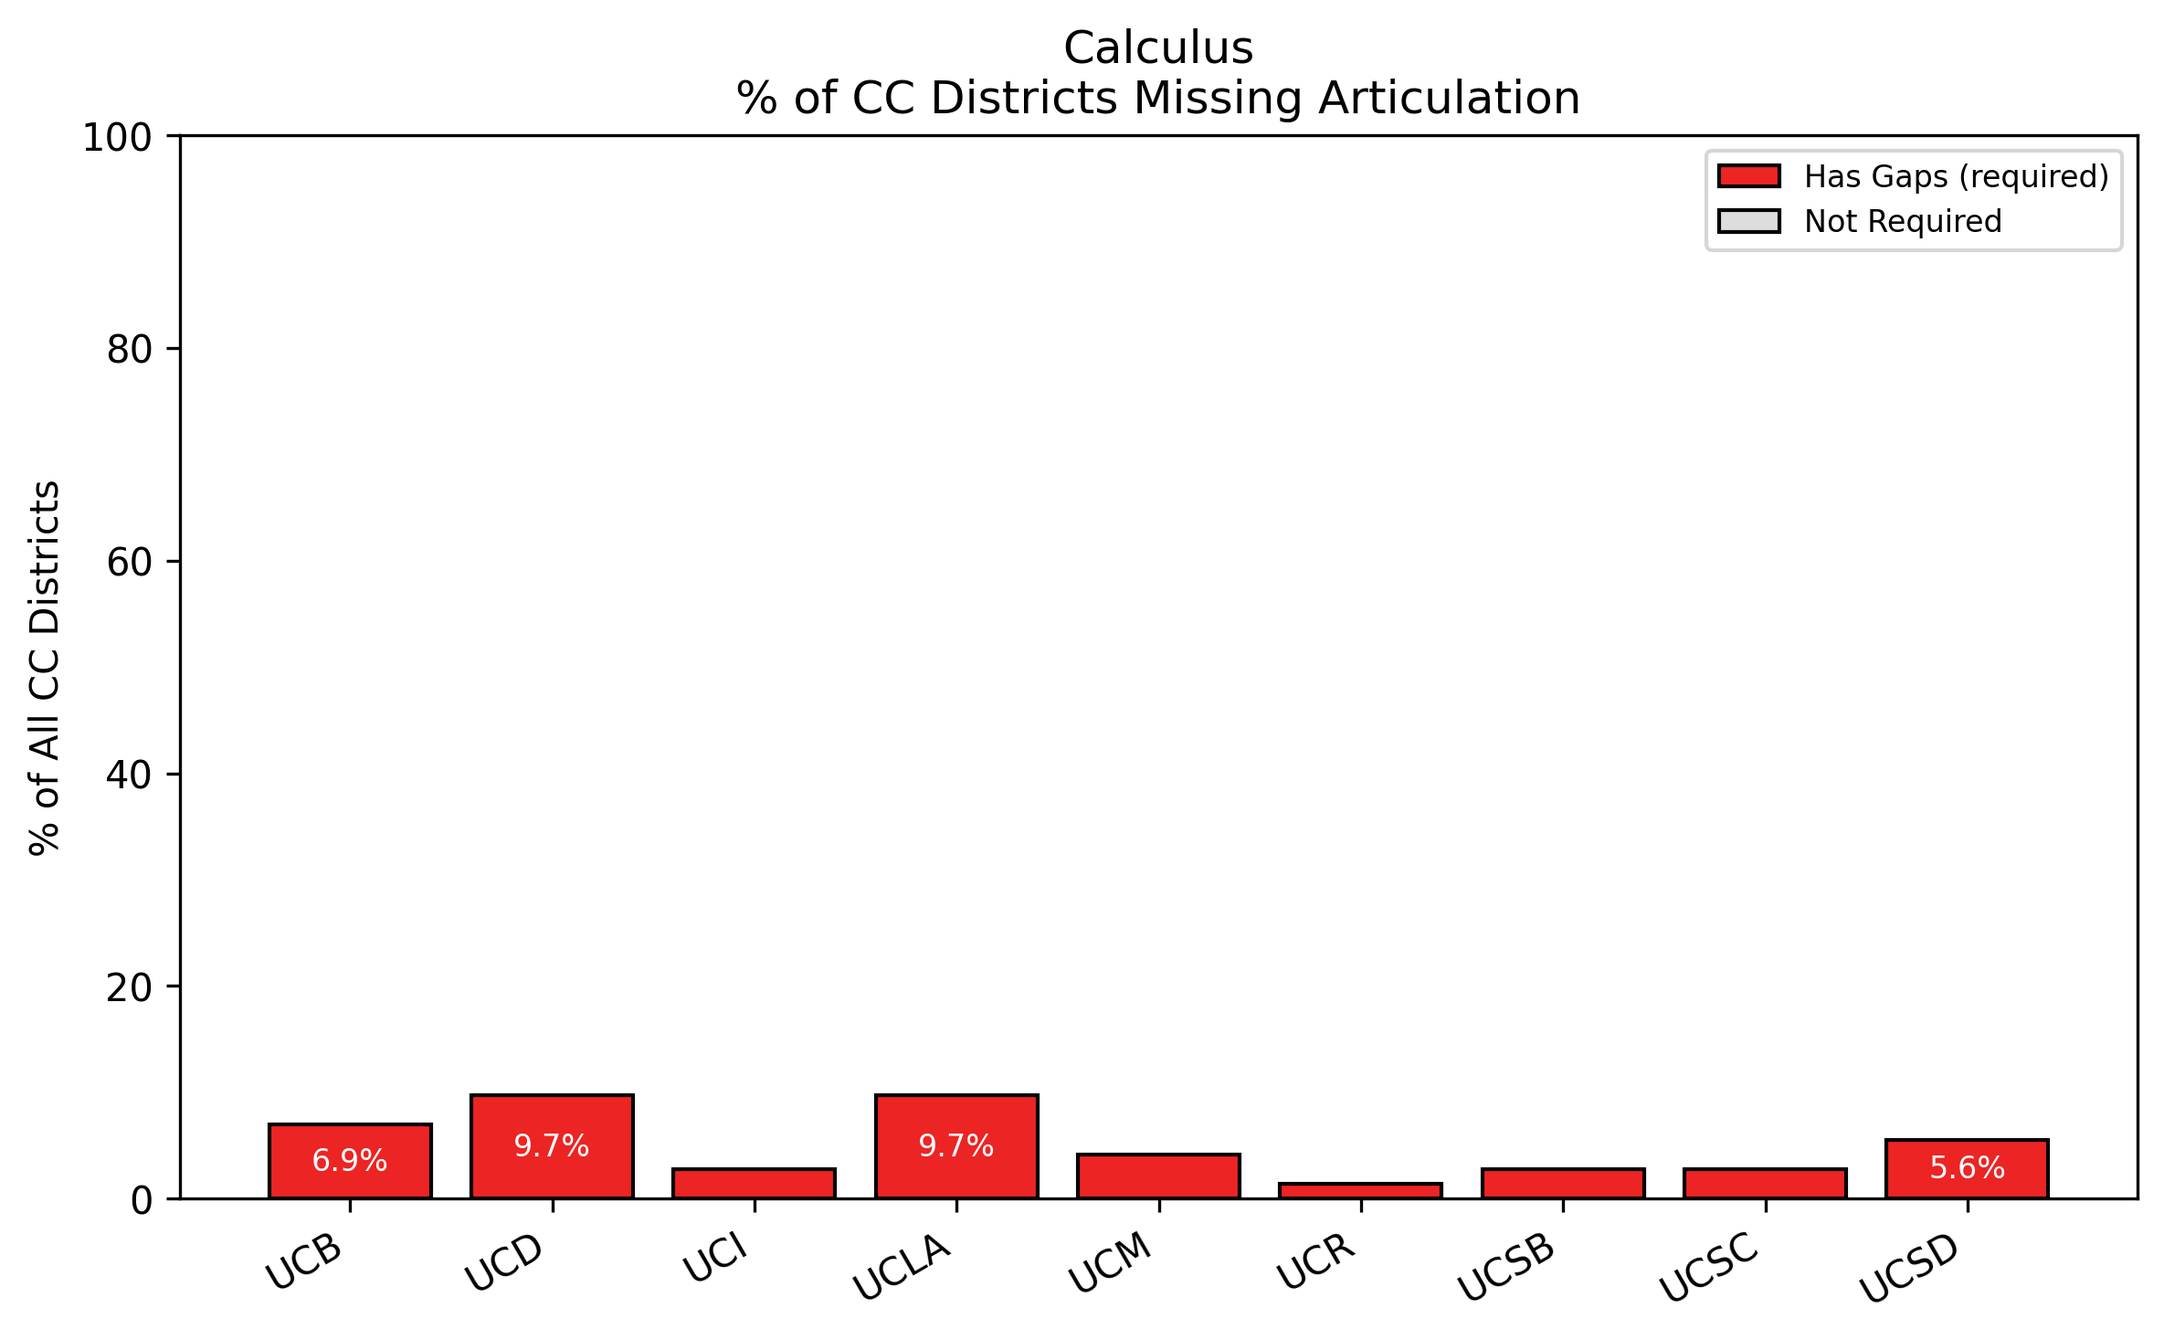
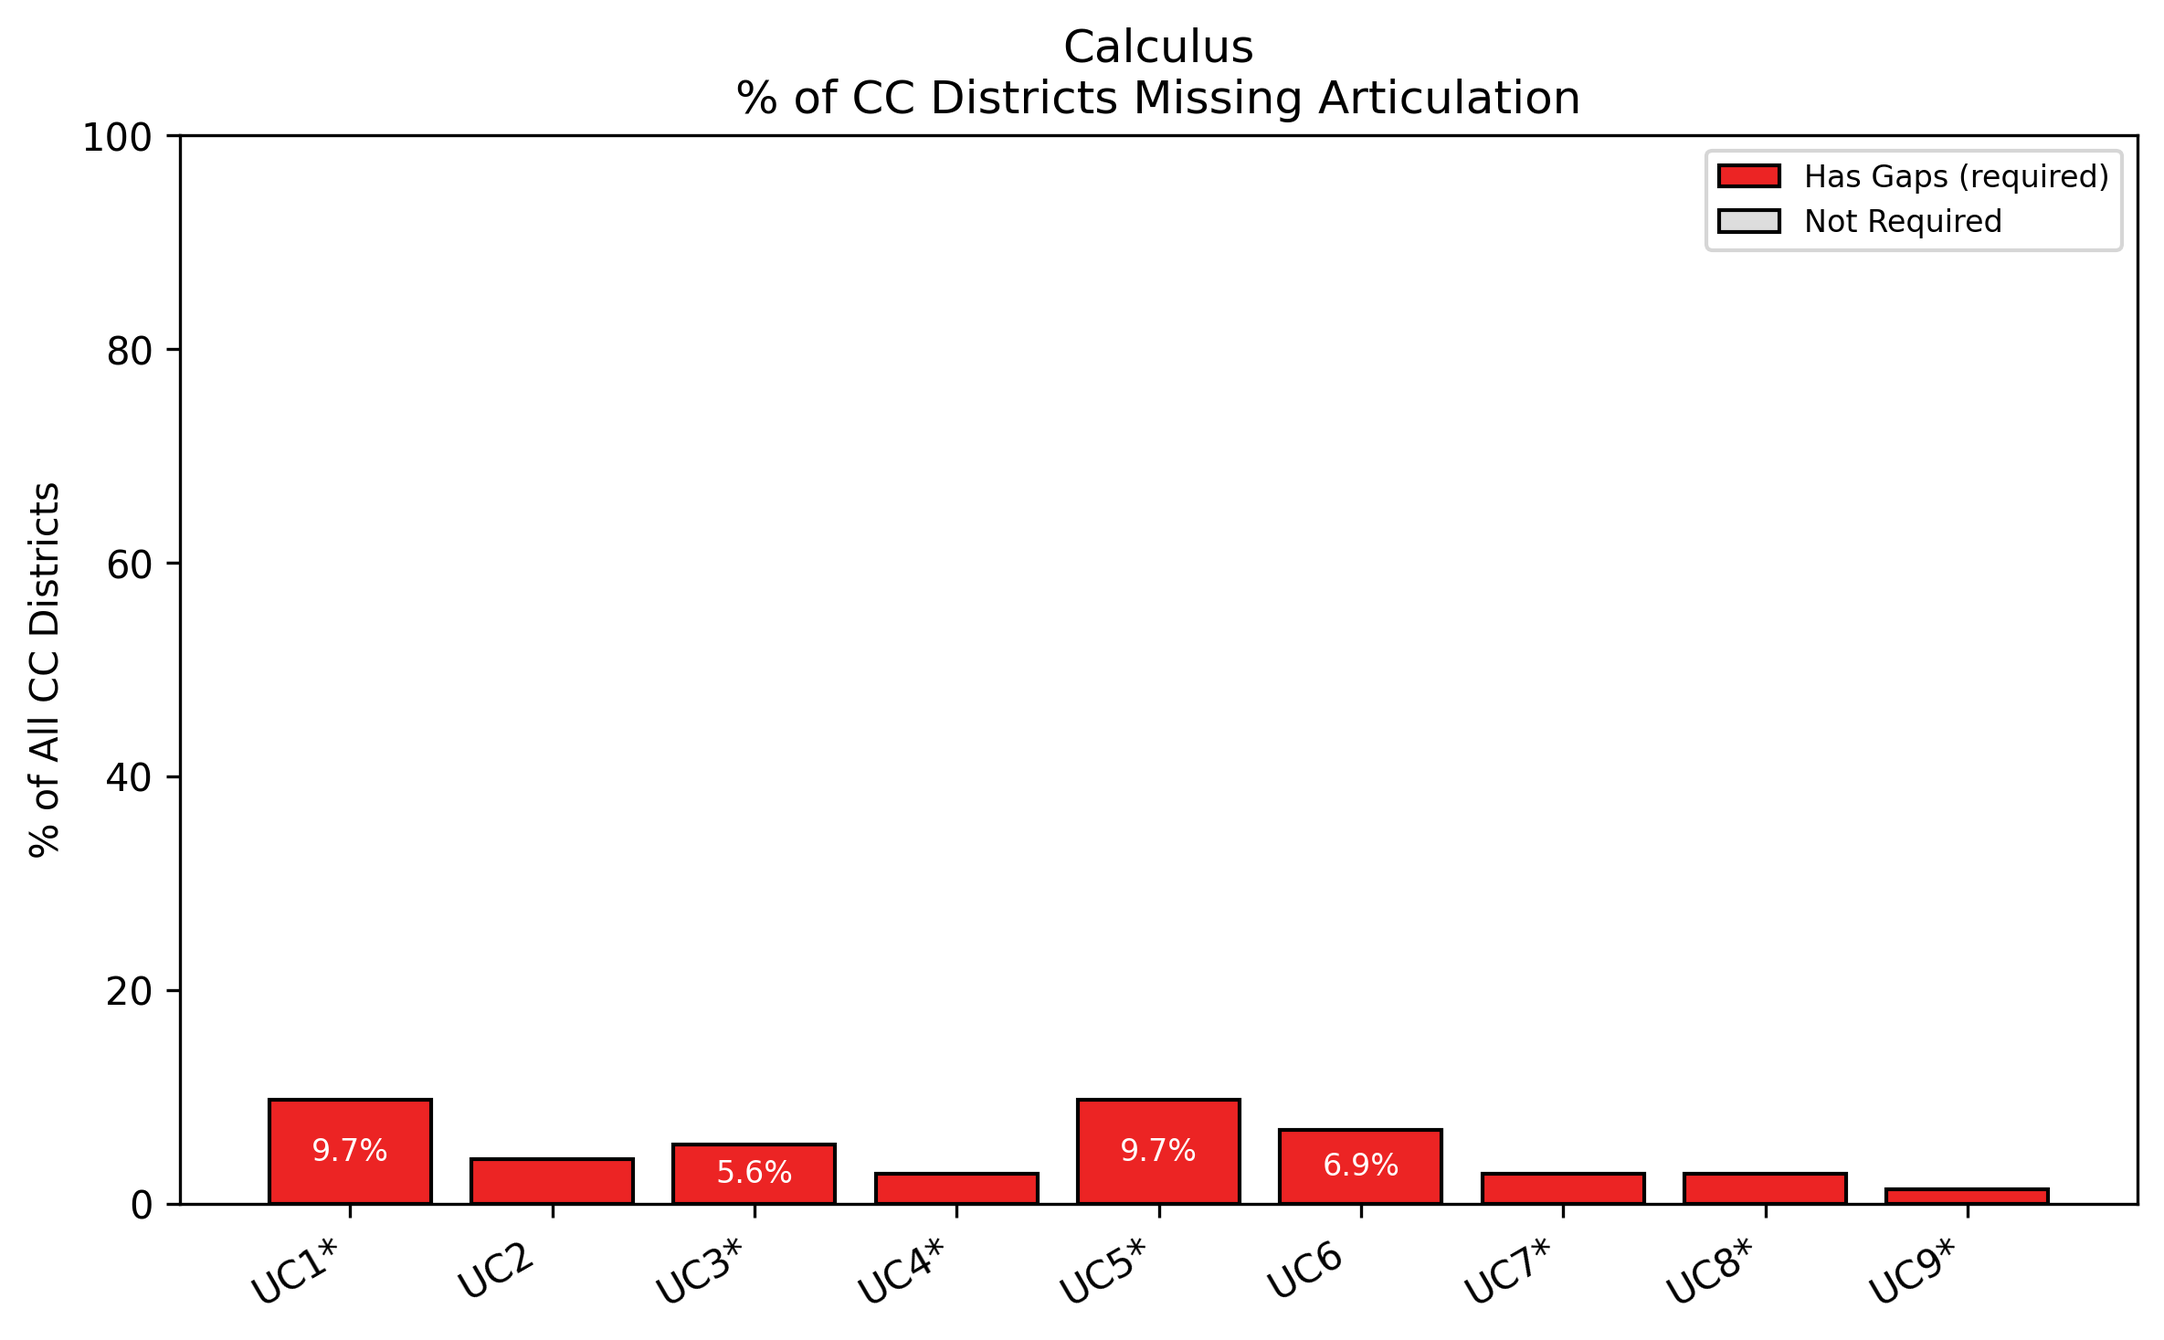
changes to graphs for paper

diff --git a/question_2-3/district-level/course_analysis.py b/question_2-3/district-level/course_analysis.py
@@ -14,12 +14,12 @@ def create_group_frequency_graph(data):
     plt.figure(figsize=(15, 8))
     
     # Get unique UCs and Group IDs
-    uc_names = data['UC Name'].unique()
+    uc_names = data['UC Index'].unique()
     
     # Count Group ID frequencies for each UC
     uc_group_counts = {}
     for uc in uc_names:
-        uc_data = data[data['UC Name'] == uc]
+        uc_data = data[data['UC Index'] == uc]
         group_counts = {}
         
         for _, row in uc_data.iterrows():
@@ -149,7 +149,7 @@ def create_normalized_group_graph(data):
     from helper import COURSE_GROUPS
 
     # 1) Build per-campus/category raw counts
-    uc_names = sorted(data['UC Name'].unique())
+    uc_names = sorted(data['UC Index'].unique())
     categories = list(COURSE_GROUPS.keys())
 
     # initialize counters
@@ -160,7 +160,7 @@ def create_normalized_group_graph(data):
 
     # fill in counts
     for uc in uc_names:
-        uc_data = data[data['UC Name'] == uc]
+        uc_data = data[data['UC Index'] == uc]
         for _, row in uc_data.iterrows():
             if pd.notna(row['unarticulated_courses']):
                 for line in row['unarticulated_courses'].split('\n'):
@@ -236,7 +236,7 @@ def create_normalized_group_graph(data):
 
 def create_per_course_graphs(data, output_dir):
     # --- Prep: campuses, categories, CC total count ---
-    uc_names    = sorted(data['UC Name'].unique())
+    uc_names    = sorted(data['UC Index'].unique())
     categories  = list(COURSE_GROUPS.keys())
     n_districts = data['District'].nunique()  # denominator for percent calc
 
@@ -248,7 +248,7 @@ def create_per_course_graphs(data, output_dir):
         for uc in uc_names
     }
     for _, row in data.dropna(subset=['unarticulated_courses']).iterrows():
-        uc = row['UC Name']
+        uc = row['UC Index']
         for line in row['unarticulated_courses'].split('\n'):
             if ':' not in line:
                 continue
@@ -316,7 +316,7 @@ def create_all_course_graphs(data, output_dir):
     """
 
     os.makedirs(output_dir, exist_ok=True)
-    uc_names   = sorted(data['UC Name'].unique())
+    uc_names   = sorted(data['UC Index'].unique())
     categories = list(COURSE_GROUPS.keys())
     grey       = '#DDDDDD'
     n_districts = data['District'].nunique()
@@ -324,7 +324,7 @@ def create_all_course_graphs(data, output_dir):
     # Build raw counts
     uc_cat_counts = { uc: {cat:0 for cat in categories} for uc in uc_names }
     for _, row in data.dropna(subset=['unarticulated_courses']).iterrows():
-        uc = row['UC Name']
+        uc = row['UC Index']
         for line in row['unarticulated_courses'].split('\n'):
             if ':' not in line:
                 continue
@@ -351,34 +351,35 @@ def create_all_course_graphs(data, output_dir):
         bars = ax.bar(uc_names, heights, color=colors, edgecolor='k')
 
         # annotate only coloured bars
-        for rect, c, p in zip(bars, counts, perc):
-            if c > 0 and p > 5: 
+        for rect, p in zip(bars, perc):
+            if p > 0:    
+                height = rect.get_height()
                 ax.text(
-                    rect.get_x() + rect.get_width()/2,
-                    p/2,
-                    f"{p:.1f}%",
-                    ha='center', va='center',
+                    rect.get_x() + rect.get_width() / 2,  # x-center of bar
+                    height + 0.01 * ax.get_ylim()[1],      # a 1%-of-axis‐height offset
+                    f"{p:.1f}%",                           # the label
+                    ha="center", va="bottom",              # center horizontally, bottom-align vertically
                     fontsize=8,
-                    color='white'
+                    color="black"
                 )
 
-        ax.set_ylim(0, 100)
+        ax.set_ylim(0, 60)
         ax.set_title(cat.replace('_',' ').title(), fontsize=20)
         ax.set_xticks(np.arange(len(uc_names)))
         ax.set_xticklabels(uc_names, rotation=20, ha='right')
         # only the leftmost column gets a ylabel
         if idx % 3 == 0:
-            ax.set_ylabel("% of CC Districts", fontsize=20)
+            ax.set_ylabel("% of CC Districts", fontsize=18)
 
     # Shared title & legend
-    fig.suptitle(
-        "Per‐Course: % of CC Districts Missing Articulation",
-        fontsize=24, y=0.9
-    )
+    # fig.suptitle(
+    #     "Per‐Course: % of CC Districts Missing Articulation",
+    #     fontsize=20, y=0.9
+    # )
     from matplotlib.patches import Patch
     legend_items = [
-        Patch(facecolor='black', edgecolor='k', label='Coloured = % missing'),
-        Patch(facecolor=grey, edgecolor='k', label='Grey = not required')
+        Patch(facecolor='black', edgecolor='k', label='Colored = % missing'),
+        Patch(facecolor=grey, edgecolor='k', label='Gray = not required')
     ]
     fig.legend(
         handles=legend_items,
@@ -395,89 +396,89 @@ def create_all_course_graphs(data, output_dir):
     plt.close(fig)
 
 
-def create_course_articulation_scatter(data, output_path):
-    """
-    Draws a 6×9 scatter‐matrix of courses vs. UC campuses.
-    • Dot size ∝ percent of CC districts missing articulation (only for required courses).
-    • Grey dots mark UC–course pairs with zero gaps (not required).
-    """
-    import os
-    import numpy as np
-    import matplotlib.pyplot as plt
-    from helper import COURSE_GROUPS
+# def create_course_articulation_scatter(data, output_path):
+#     """
+#     Draws a 6×9 scatter‐matrix of courses vs. UC campuses.
+#     • Dot size ∝ percent of CC districts missing articulation (only for required courses).
+#     • Grey dots mark UC–course pairs with zero gaps (not required).
+#     """
+#     import os
+#     import numpy as np
+#     import matplotlib.pyplot as plt
+#     from helper import COURSE_GROUPS
 
-    # 1) Prep
-    uc_names   = sorted(data['UC Name'].unique())
-    courses    = list(COURSE_GROUPS.keys())
-    n_districts = data['District'].nunique()
-    grey_color  = '#CCCCCC'
-    base_size   = 800  # tweak for overall dot scale
+#     # 1) Prep
+#     uc_names   = sorted(data['UC Index'].unique())
+#     courses    = list(COURSE_GROUPS.keys())
+#     n_districts = data['District'].nunique()
+#     grey_color  = '#CCCCCC'
+#     base_size   = 800  # tweak for overall dot scale
 
-    # 2) Compute missing‐counts
-    uc_cat_counts = { uc: {cat:0 for cat in courses} for uc in uc_names }
-    for _, row in data.dropna(subset=['unarticulated_courses']).iterrows():
-        uc = row['UC Name']
-        for line in row['unarticulated_courses'].split('\n'):
-            if ':' not in line:
-                continue
-            gid = line.split(':',1)[0].strip().lower()
-            for cat, info in COURSE_GROUPS.items():
-                if any(pat in gid for pat in info['patterns']):
-                    uc_cat_counts[uc][cat] += 1
-                    break
+#     # 2) Compute missing‐counts
+#     uc_cat_counts = { uc: {cat:0 for cat in courses} for uc in uc_names }
+#     for _, row in data.dropna(subset=['unarticulated_courses']).iterrows():
+#         uc = row['UC Index']
+#         for line in row['unarticulated_courses'].split('\n'):
+#             if ':' not in line:
+#                 continue
+#             gid = line.split(':',1)[0].strip().lower()
+#             for cat, info in COURSE_GROUPS.items():
+#                 if any(pat in gid for pat in info['patterns']):
+#                     uc_cat_counts[uc][cat] += 1
+#                     break
 
-    # 3) Build scatter data
-    xs, ys, sizes, colors = [], [], [], []
-    for i, cat in enumerate(courses):
-        for j, uc in enumerate(uc_names):
-            miss = uc_cat_counts[uc][cat]
-            if miss > 0:
-                pct = miss / n_districts  # fraction missing
-                xs.append(j)
-                ys.append(i)
-                sizes.append(base_size * pct)
-                colors.append(COURSE_GROUPS[cat]['color'])
-            else:
-                # not required → small grey dot
-                xs.append(j)
-                ys.append(i)
-                sizes.append(base_size * 0.1)
-                colors.append(grey_color)
+#     # 3) Build scatter data
+#     xs, ys, sizes, colors = [], [], [], []
+#     for i, cat in enumerate(courses):
+#         for j, uc in enumerate(uc_names):
+#             miss = uc_cat_counts[uc][cat]
+#             if miss > 0:
+#                 pct = miss / n_districts  # fraction missing
+#                 xs.append(j)
+#                 ys.append(i)
+#                 sizes.append(base_size * pct)
+#                 colors.append(COURSE_GROUPS[cat]['color'])
+#             else:
+#                 # not required → small grey dot
+#                 xs.append(j)
+#                 ys.append(i)
+#                 sizes.append(base_size * 0.1)
+#                 colors.append(grey_color)
 
-    # 4) Plot
-    fig, ax = plt.subplots(figsize=(12, 6))
-    scatter = ax.scatter(xs, ys, s=sizes, c=colors, edgecolors='k', linewidth=0.3)
+#     # 4) Plot
+#     fig, ax = plt.subplots(figsize=(12, 6))
+#     scatter = ax.scatter(xs, ys, s=sizes, c=colors, edgecolors='k', linewidth=0.3)
 
-    # 5) Axes & labels
-    ax.set_xticks(np.arange(len(uc_names)))
-    ax.set_xticklabels(uc_names, rotation=45, ha='right')
-    ax.set_yticks(np.arange(len(courses)))
-    ax.set_yticklabels([c.replace('_',' ').title() for c in courses])
-    ax.set_xlim(-0.5, len(uc_names)-0.5)
-    ax.set_ylim(-0.5, len(courses)-0.5)
+#     # 5) Axes & labels
+#     ax.set_xticks(np.arange(len(uc_names)))
+#     ax.set_xticklabels(uc_names, rotation=45, ha='right')
+#     ax.set_yticks(np.arange(len(courses)))
+#     ax.set_yticklabels([c.replace('_',' ').title() for c in courses])
+#     ax.set_xlim(-0.5, len(uc_names)-0.5)
+#     ax.set_ylim(-0.5, len(courses)-0.5)
 
-    ax.set_xlabel("UC Campus")
-    ax.set_ylabel("Course Category")
-    ax.set_title("Course Articulation Gaps: % of CC Districts Missing (dot size)")
+#     ax.set_xlabel("UC Campus")
+#     ax.set_ylabel("Course Category")
+#     ax.set_title("Course Articulation Gaps: % of CC Districts Missing (dot size)")
 
-    # 6) Legend for dot‐size + grey
-    from matplotlib.lines import Line2D
-    legend_elems = [
-        Line2D([0], [0], marker='o', color='w', label='Not required',
-               markerfacecolor=grey_color, markersize=5, markeredgecolor='k'),
-        Line2D([0], [0], marker='o', color='w', label='20% missing',
-               markerfacecolor='k', markersize=np.sqrt(base_size*0.2)/2),
-        Line2D([0], [0], marker='o', color='w', label='50% missing',
-               markerfacecolor='k', markersize=np.sqrt(base_size*0.5)/2),
-    ]
-    ax.legend(handles=legend_elems, title="Example dot sizes", 
-              loc='lower right', fontsize=8, title_fontsize=9,
-              frameon=False)
+#     # 6) Legend for dot‐size + grey
+#     from matplotlib.lines import Line2D
+#     legend_elems = [
+#         Line2D([0], [0], marker='o', color='w', label='Not required',
+#                markerfacecolor=grey_color, markersize=5, markeredgecolor='k'),
+#         Line2D([0], [0], marker='o', color='w', label='20% missing',
+#                markerfacecolor='k', markersize=np.sqrt(base_size*0.2)/2),
+#         Line2D([0], [0], marker='o', color='w', label='50% missing',
+#                markerfacecolor='k', markersize=np.sqrt(base_size*0.5)/2),
+#     ]
+#     ax.legend(handles=legend_elems, title="Example dot sizes", 
+#               loc='lower right', fontsize=8, title_fontsize=9,
+#               frameon=False)
 
-    plt.tight_layout()
-    os.makedirs(os.path.dirname(output_path), exist_ok=True)
-    fig.savefig(output_path, dpi=300)
-    plt.close(fig)
+#     plt.tight_layout()
+#     os.makedirs(os.path.dirname(output_path), exist_ok=True)
+#     fig.savefig(output_path, dpi=300)
+#     plt.close(fig)
 
 
 def main():
@@ -491,7 +492,7 @@ def main():
     create_normalized_group_graph(combined_data)
     create_per_course_graphs(combined_data, os.path.join(script_dir, 'per_course_analysis'))
     create_all_course_graphs(combined_data, os.path.join(script_dir, 'per_course_analysis'))
-    create_course_articulation_scatter(combined_data, os.path.join(script_dir, 'course_articulation_scatter.png'))
+    # create_course_articulation_scatter(combined_data, os.path.join(script_dir, 'course_articulation_scatter.png'))
 
 if __name__ == "__main__":
     main()

diff --git a/question_2-3/district-level/district_least_options.py b/question_2-3/district-level/district_least_options.py
@@ -57,10 +57,11 @@ def create_simple_bar_plot(data):
                 f'{int(height)}',
                 ha='center', va='bottom', fontsize=14)
     
-    plt.title('Distribution of Complete UC Articulations per District', fontsize=24)
+    # plt.title('Distribution of Complete UC Articulations per District', fontsize=24)
     plt.xlabel('Number of UCs with Complete Articulation', fontsize=20)
     plt.ylabel('Number of Districts', fontsize=20)
-    plt.xticks(range(10))
+    plt.xticks(range(10), fontsize=16)
+    plt.yticks(fontsize=16)
 
     # Save the plot
     output_path = os.path.join(
@@ -72,7 +73,7 @@ def create_simple_bar_plot(data):
 
 def create_horizontal_heatmap(data):
     # Pivot the data for the heatmap - swap index and columns
-    heatmap_data = data.pivot(index='UC Name', columns='District', values='counts')
+    heatmap_data = data.pivot(index='UC Index', columns='District', values='counts')
     
     # Set font sizes
     # plt.rcParams.update({'font.size': 22})  # Increase base font size
@@ -81,7 +82,7 @@ def create_horizontal_heatmap(data):
     
     # Create heatmap with a different colormap to emphasize binary nature
     sns.heatmap(heatmap_data, annot=False, cbar=False, cmap=sns.color_palette(["white", "#1a237e"], as_cmap=True), fmt='g', vmin=0, vmax=1, linewidths=1, linecolor='black', square=True)
-    plt.title('Valid Transfer Paths to UCs by District\n(Blue=All courses articulated, White=Some courses not articulated)', pad=20, fontsize=36)
+    # plt.title('Valid Transfer Paths to UCs by CC District', pad=20, fontsize=36)
     plt.ylabel('UC Campus', fontsize=36)  # Swapped labels
     plt.xlabel('Community College District', fontsize=36)
     
@@ -97,15 +98,15 @@ def create_horizontal_heatmap(data):
 
 def create_vertical_heatmap(data):
     # Pivot the data for the heatmap
-    heatmap_data = data.pivot(index='District', columns='UC Name', values='counts')
-    
+    heatmap_data = data.pivot(index='District', columns='UC Index', values='counts')
+
     # Create a figure with larger size
     plt.figure(figsize=(10, 30))  # Increased height to accommodate all districts
     plt.rcParams.update({'font.size': 18})  # Increase base font size
     
     # Create heatmap with a different colormap to emphasize binary nature
     sns.heatmap(heatmap_data, annot=False, cbar=False, cmap=sns.color_palette(["white", "#1a237e"], as_cmap=True), fmt='g', vmin=0, vmax=1, linewidths=1, linecolor='black')
-    plt.title('Valid Transfer Paths to UCs by District\n(Blue=All courses articulated, \nWhite=Some courses not articulated)', pad=20, fontsize=30)
+    plt.title('Valid Transfer Paths to UCs by District', pad=20, fontsize=30)
     plt.ylabel('Community College District', fontsize=30)
     plt.xlabel('UC Campus', fontsize=30)
     

diff --git a/question_2-3/district-level/helper.py b/question_2-3/district-level/helper.py
@@ -7,9 +7,21 @@ COURSE_GROUPS = {
     'Calculus':             {'color': "#EC2424", 'patterns': ['calc']},
     'Intro Programming':    {'color': "#25ADA7", 'patterns': ['intro', 'program']},
     'Data Structures':      {'color': "#8F35B3", 'patterns': ['data', 'struct']},
-    'Linear Algebra and Differential Equations':        {'color': "#0B7C3C", 'patterns': ['linear', 'differential']},
+    'Advanced Math':        {'color': "#0B7C3C", 'patterns': ['linear', 'differential']},
     'Computer Organization':    {'color': "#0C5382", 'patterns': ['organ', 'system', 'computer']},
     'Discrete Math':        {'color': '#FF9F1C', 'patterns': ['discrete']},
+}
+
+UC_NAME_INDICES = {
+    'UCD':    'UC1*',
+    'UCM':    'UC2 ',
+    'UCSD':   'UC3*',
+    'UCSB':   'UC4*',
+    'UCLA':   'UC5*',
+    'UCB':    'UC6 ',
+    'UCSC':   'UC7*',
+    'UCI':    'UC8*',
+    'UCR':    'UC9*',
 }
 
 COURSE_CATEGORIES = list(COURSE_GROUPS.keys())
@@ -72,6 +84,7 @@ def count_transfer_options(file_path):
     
     records = []
     for uc in df['UC Name'].unique():
+        uc_index = UC_NAME_INDICES.get(uc, uc)
         uc_df = df[df['UC Name'] == uc]
         # gather unarticulated courses by group, considering Set IDs
         grouped = {}
@@ -125,7 +138,7 @@ def count_transfer_options(file_path):
             count = 1
     
         records.append({
-            'UC Name': uc,
+            'UC Index': uc_index,
             'counts': count,
             'unarticulated_courses': detail
         })
